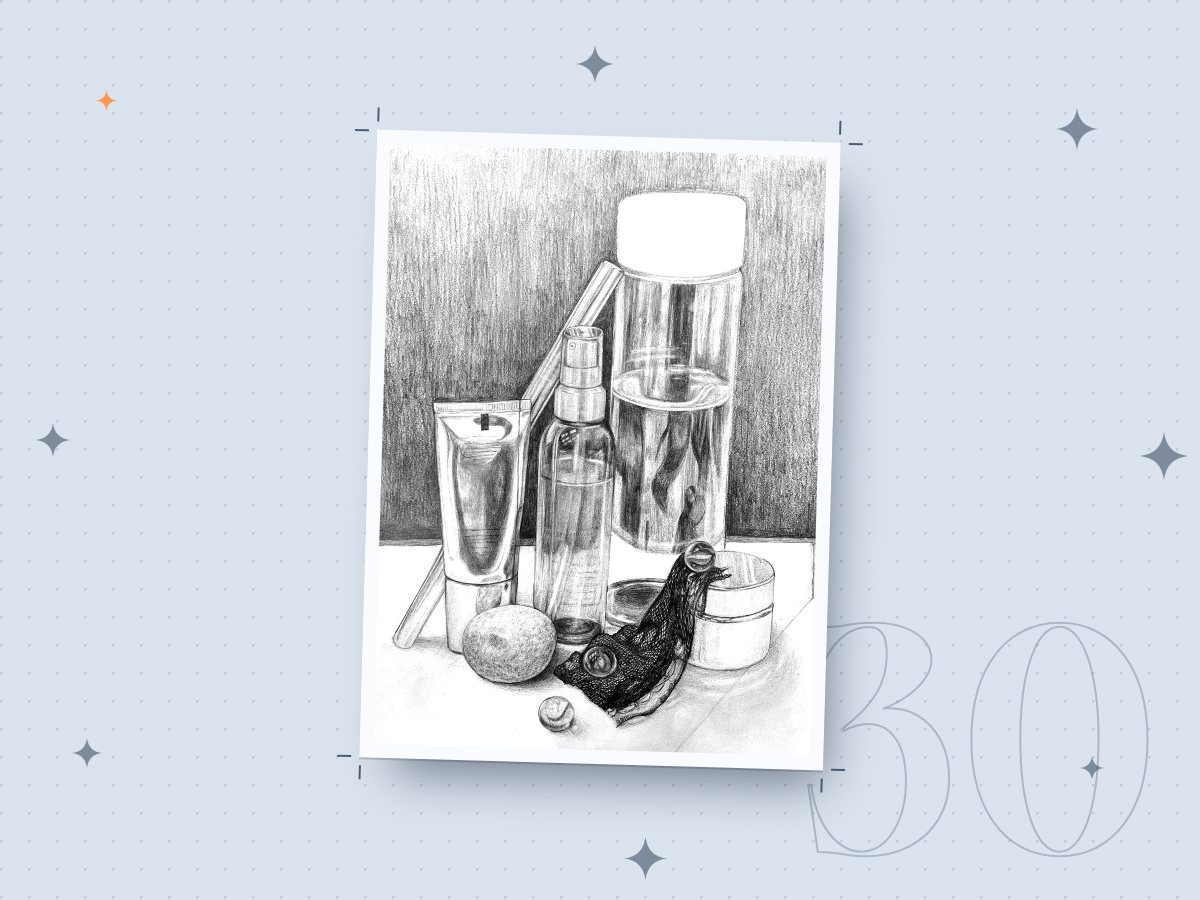
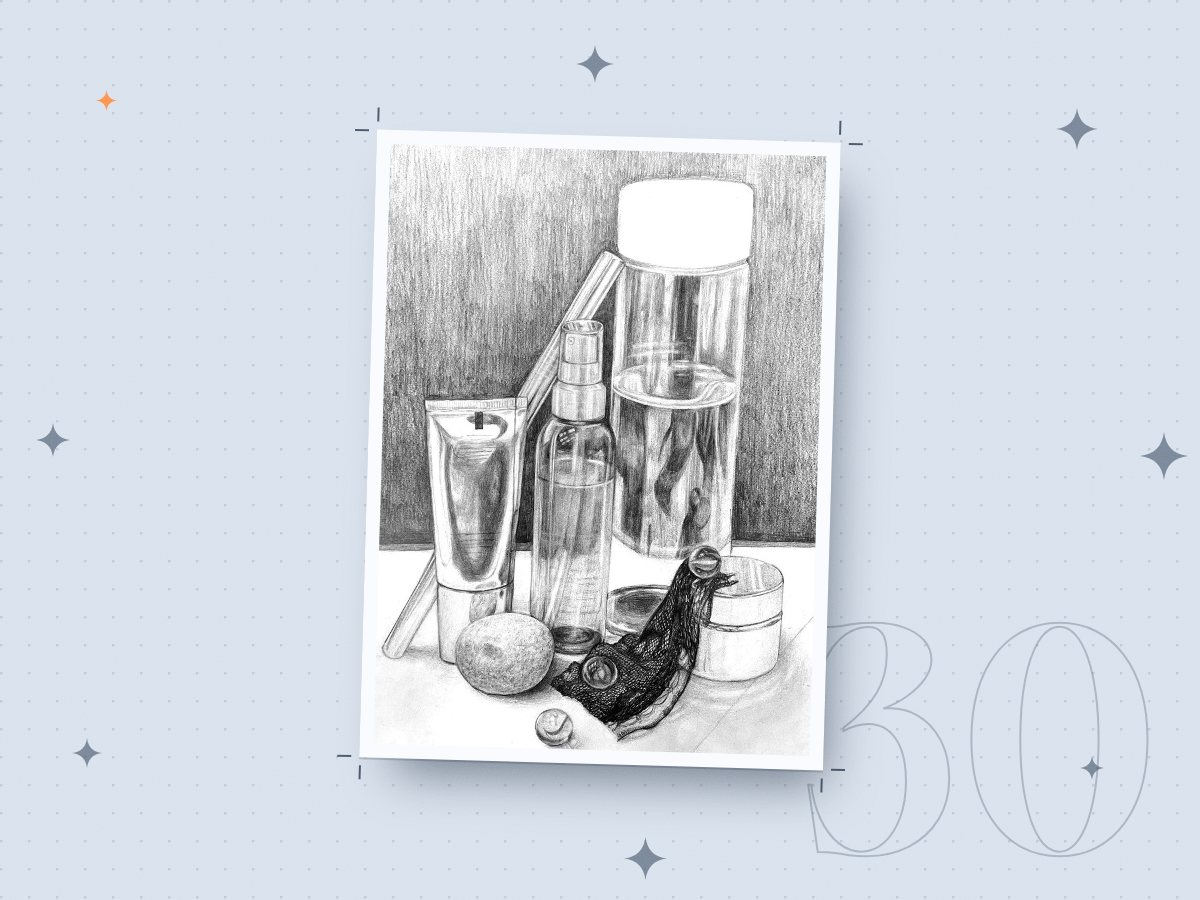
Sketches: keep highlights (no overexposure), crop gray corners
Claude-Session: https://claude.ai/code/session_01GPGckZEsofTcxj1jt2CKdh

Changed region(s): [[0.3083, 0.1556, 0.7092, 0.84]]

diff --git a/src/data/works.ts b/src/data/works.ts
@@ -301,8 +301,8 @@ export const works: Work[] = [
     summary: '高中時期的鉛筆素描靜物：瓶罐與玻璃、腳踏車，以及楊桃與小果實。',
     tags: ['Pencil', 'Still Life', 'Study'],
     images: [
-      { src: '/works/hd-still-life.jpg', alt: '鉛筆素描靜物：軟管、噴霧瓶、水瓶、玻璃珠與網狀布', w: 782, h: 1075 },
-      { src: '/works/hd-bike.jpg', alt: '鉛筆素描的腳踏車', w: 1416, h: 937 },
+      { src: '/works/hd-still-life.jpg', alt: '鉛筆素描靜物：軟管、噴霧瓶、水瓶、玻璃珠與網狀布', w: 744, h: 1023 },
+      { src: '/works/hd-bike.jpg', alt: '鉛筆素描的腳踏車', w: 1360, h: 901 },
       { src: '/works/hd-starfruit.jpg', alt: '鉛筆素描的楊桃與一顆小果實', w: 1083, h: 1500 },
     ],
   },
@@ -313,10 +313,10 @@ export const works: Work[] = [
     summary: '高中時期的鉛筆素描人像與動物：捲髮女孩、長髮女孩、留鬍子的老先生，以及套著繩籠頭的牛。',
     tags: ['Pencil', 'Portrait', 'Study'],
     images: [
-      { src: '/works/hd-girl-curly.jpg', alt: '鉛筆素描：穿著拼色上衣的捲髮女孩', w: 1143, h: 1470 },
+      { src: '/works/hd-girl-curly.jpg', alt: '鉛筆素描：穿著拼色上衣的捲髮女孩', w: 1075, h: 1382 },
       { src: '/works/hd-girl-long.jpg', alt: '鉛筆素描：長髮女孩的正面肖像', w: 1030, h: 1470 },
-      { src: '/works/hd-old-man.jpg', alt: '鉛筆素描：留鬍子的老先生', w: 1103, h: 1470 },
-      { src: '/works/hd-cow.jpg', alt: '鉛筆素描：套著繩籠頭的牛', w: 1103, h: 1470 },
+      { src: '/works/hd-old-man.jpg', alt: '鉛筆素描：留鬍子的老先生', w: 1027, h: 1419 },
+      { src: '/works/hd-cow.jpg', alt: '鉛筆素描：套著繩籠頭的牛', w: 1015, h: 1412 },
     ],
   },
   {
